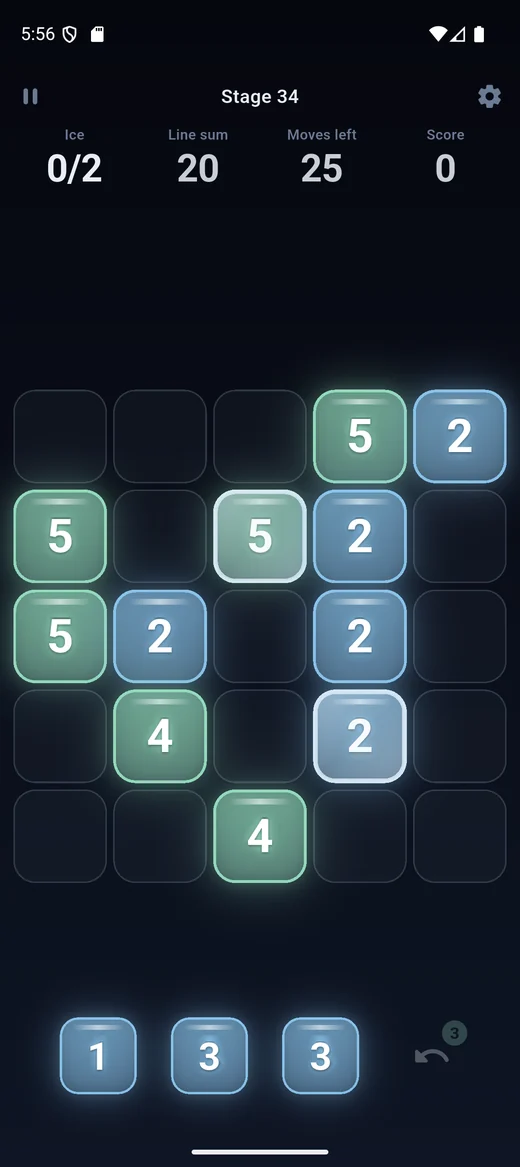
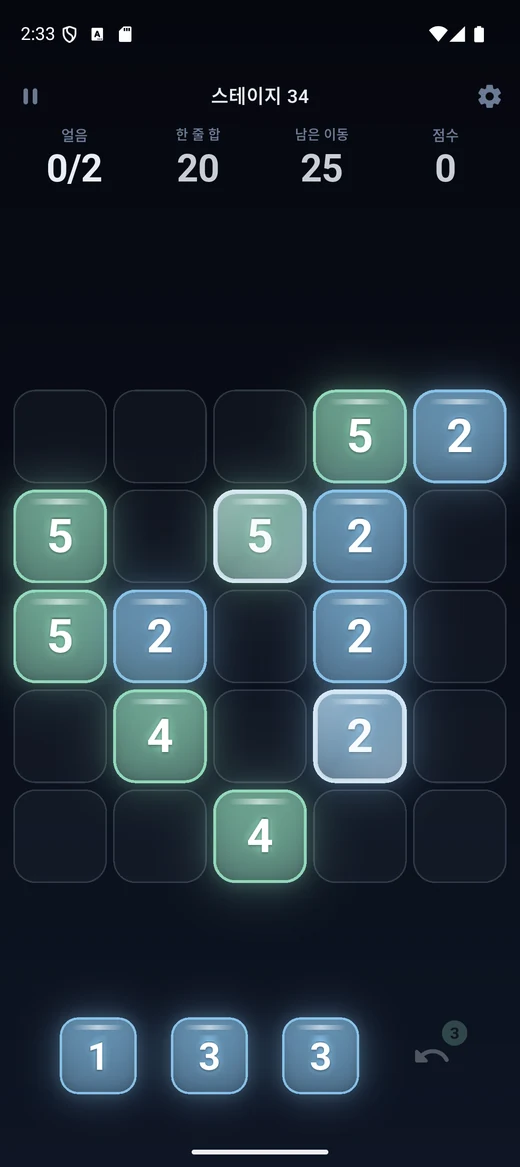
숫자 타일 카드를 옆 카드와 맞춘다
폰 화면이 영어로 나가고 있었다. 옆의 네모다람쥐는 한국어인데 우리만
"Stage 34 / Line sum / Moves left" 였다. 스토어용으로 영어 로케일에서
찍어둔 것을 그대로 썼기 때문이다. 에뮬레이터에 앱별 언어를 한국어로
걸고 어두운 테마로 다시 찍었다.

보드 그림이 비어 보였다. 피처 그래픽은 스토어가 앱 이름과 아이콘을
옆에 얹는 것을 전제로 여백을 크게 둔 것이라, 이 카드 자리에서는
격자가 작게 떠서 구멍처럼 읽혔다. 격자만 잘라 꽉 채웠다.

카드를 냥냥원정대 아래로 옮겼다. 붉은 무덤이 어두운 판때기라 우리
어두운 카드가 그 앞에 붙으면 밝은 카드 둘 사이에 끼지 않는다.

광고가 뜬 화면은 쓰지 않았다. 남의 회사 크리에이티브를 우리 마케팅
자료에 싣는 것이 된다.

diff --git a/index.html b/index.html
@@ -286,32 +286,6 @@ footer { border-top: 1px solid var(--line); padding: 28px 0 56px; color: var(--m
 
 <section>
   <div class="wrap">
-    <div class="feature reveal">
-      <div class="shots">
-        <div class="board"><img src="assets/mathtiles-feature.webp" alt="숫자 타일의 발광하는 숫자 타일 격자" width="1024" height="500" loading="lazy"></div>
-        <div class="phone"><img src="assets/mathtiles-shot.webp" alt="5×5 판에서 한 줄의 합을 맞추는 실제 게임 화면" width="520" height="1167" loading="lazy"></div>
-      </div>
-      <div>
-        <h3>숫자 타일<span class="tag out">출시 준비</span></h3>
-        <p class="kind">숫자 퍼즐 · 한 줄의 합 맞추기</p>
-        <p class="body">
-          행이나 열의 합이 목표값에 닿으면 그 줄이 사라집니다.
-          암산 속도를 겨루는 게임이 아니라, 어디에 놓아야 다음 수가
-          살아남는지를 고르는 게임입니다. 뒤로 갈수록 연산자와 얼음,
-          도화선이 도는 폭탄이 규칙을 바꿉니다.
-        </p>
-        <ul class="facts">
-          <li>스테이지 40판</li>
-          <li>끝없는 모드 · 순위표</li>
-          <li>10개 국어</li>
-        </ul>
-      </div>
-    </div>
-  </div>
-</section>
-
-<section>
-  <div class="wrap">
     <div class="meowtop reveal">
       <div>
         <h3>냥냥원정대<span class="tag wip">개발 중</span></h3>
@@ -332,6 +306,32 @@ footer { border-top: 1px solid var(--line); padding: 28px 0 56px; color: var(--m
     </div>
     <div class="band reveal">
       <img src="assets/meow-lobby.webp" alt="냥냥원정대 로비 화면. 6챕터 자갈 길의 대문 그림과 출격 카드가 놓여 있다" width="1400" height="651" loading="lazy">
+    </div>
+  </div>
+</section>
+
+<section>
+  <div class="wrap">
+    <div class="feature reveal">
+      <div class="shots">
+        <div class="board"><img src="assets/mathtiles-board.webp" alt="숫자 타일의 발광하는 숫자 타일 격자" width="900" height="909" loading="lazy"></div>
+        <div class="phone"><img src="assets/mathtiles-shot.webp" alt="5×5 판에서 한 줄의 합을 맞추는 실제 게임 화면" width="520" height="1167" loading="lazy"></div>
+      </div>
+      <div>
+        <h3>숫자 타일<span class="tag out">출시 준비</span></h3>
+        <p class="kind">숫자 퍼즐 · 한 줄의 합 맞추기</p>
+        <p class="body">
+          행이나 열의 합이 목표값에 닿으면 그 줄이 사라집니다.
+          암산 속도를 겨루는 게임이 아니라, 어디에 놓아야 다음 수가
+          살아남는지를 고르는 게임입니다. 뒤로 갈수록 연산자와 얼음,
+          도화선이 도는 폭탄이 규칙을 바꿉니다.
+        </p>
+        <ul class="facts">
+          <li>스테이지 40판</li>
+          <li>끝없는 모드 · 순위표</li>
+          <li>10개 국어</li>
+        </ul>
+      </div>
     </div>
   </div>
 </section>
